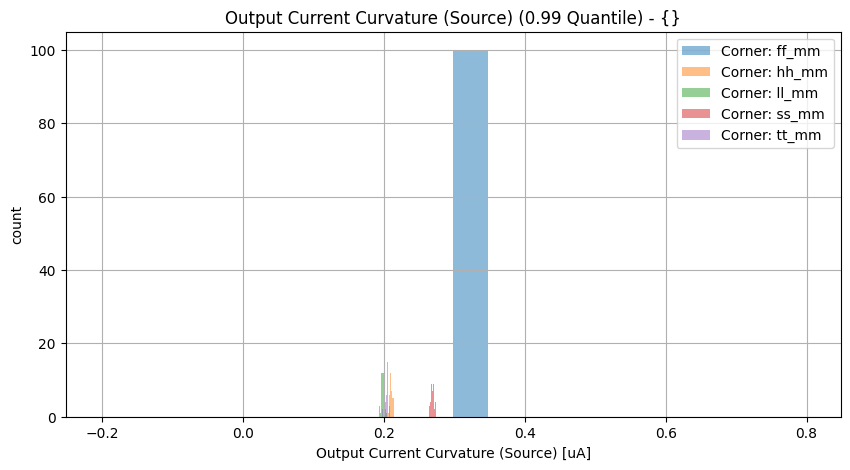
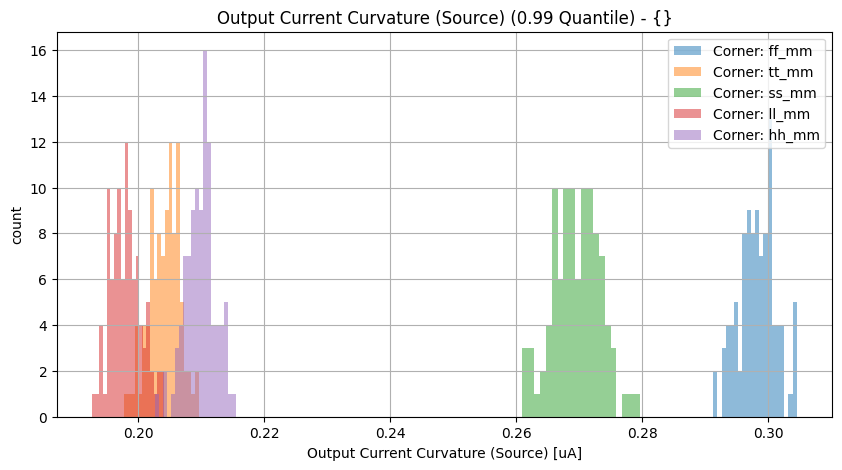
Jenkins update

diff --git a/vthref/vthref/Readme.md b/vthref/vthref/Readme.md
@@ -1,4 +1,4 @@
-23.11.2022, 20:17:28
+24.11.2022, 00:33:06
 
 # Vth Current Reference
 
@@ -30,8 +30,8 @@
 
 | Parameter | Min (Spec. / Sim.) |      | Max (Sim. / Spec.) | Unit | Checks (total/pass/fail/NaN) | Comment |
 | :-------- | -----------------: | :--: | :----------------- | :--- | :--------------------------- | ------- |
-| Output Current Curvature (Sink) | 0.0 / 0.191 | <svg height="20" width="150"><polyline points="3.0,3,3.0,17,147.0,17,147.0,3" style="fill:none;stroke:gray;stroke-width:1" /><polyline points="75.0,10.0,75.0,17" style="fill:none;stroke:gray;stroke-width:1" /><polyline points="30.481392000000003,10.0,47.0605008,10.0" style="stroke:green;stroke-width:2" /><circle cx="30.481392000000003" cy="10.0" r="3" style="fill:green;stroke:green;stroke-width:0" /><circle cx="47.0605008" cy="10.0" r="3" style="fill:green;stroke:green;stroke-width:0" /></svg> | 0.306 / 1.0 | uA | 500/100.0%/0.0%/0.0% |  |
-| Output Current Curvature (Source) | 0.0 / 0.193 | <svg height="20" width="150"><polyline points="3.0,3,3.0,17,147.0,17,147.0,3" style="fill:none;stroke:gray;stroke-width:1" /><polyline points="75.0,10.0,75.0,17" style="fill:none;stroke:gray;stroke-width:1" /><polyline points="30.7997184,10.0,45.9679728,10.0" style="stroke:green;stroke-width:2" /><circle cx="30.7997184" cy="10.0" r="3" style="fill:green;stroke:green;stroke-width:0" /><circle cx="45.9679728" cy="10.0" r="3" style="fill:green;stroke:green;stroke-width:0" /></svg> | 0.298 / 1.0 | uA | 500/100.0%/0.0%/0.0% |  |
+| Output Current Curvature (Sink) | 0.0 / 0.191 | <svg height="20" width="150"><polyline points="3.0,3,3.0,17,147.0,17,147.0,3" style="fill:none;stroke:gray;stroke-width:1" /><polyline points="75.0,10.0,75.0,17" style="fill:none;stroke:gray;stroke-width:1" /><polyline points="30.4703904,10.0,47.329636799999996,10.0" style="stroke:green;stroke-width:2" /><circle cx="30.4703904" cy="10.0" r="3" style="fill:green;stroke:green;stroke-width:0" /><circle cx="47.329636799999996" cy="10.0" r="3" style="fill:green;stroke:green;stroke-width:0" /></svg> | 0.308 / 1.0 | uA | 500/100.0%/0.0%/0.0% |  |
+| Output Current Curvature (Source) | 0.0 / 0.193 | <svg height="20" width="150"><polyline points="3.0,3,3.0,17,147.0,17,147.0,3" style="fill:none;stroke:gray;stroke-width:1" /><polyline points="75.0,10.0,75.0,17" style="fill:none;stroke:gray;stroke-width:1" /><polyline points="30.7536096,10.0,46.8572736,10.0" style="stroke:green;stroke-width:2" /><circle cx="30.7536096" cy="10.0" r="3" style="fill:green;stroke:green;stroke-width:0" /><circle cx="46.8572736" cy="10.0" r="3" style="fill:green;stroke:green;stroke-width:0" /></svg> | 0.305 / 1.0 | uA | 500/100.0%/0.0%/0.0% |  |
 
 <br>
 
@@ -50,18 +50,16 @@
 
 | Parameter | Min (Spec. / Sim.) |      | Max (Sim. / Spec.) | Unit | Checks (total/pass/fail/NaN) | Comment |
 | :-------- | -----------------: | :--: | :----------------- | :--- | :--------------------------- | ------- |
-| Output Current Curvature (Sink) | 0.0 / 0.193 | <svg height="20" width="150"><polyline points="3.0,3,3.0,17,36.031220008111,17,36.031220008111,3" style="fill:none;stroke:gray;stroke-width:1" /><polyline points="19.5156100040555,10.0,19.5156100040555,17" style="fill:none;stroke:gray;stroke-width:1" /><polyline points="9.387144616186399,10.0,147.0,10.0" style="stroke:red;stroke-width:2" /><circle cx="9.387144616186399" cy="10.0" r="3" style="fill:red;stroke:red;stroke-width:0" /><circle cx="147.0" cy="10.0" r="3" style="fill:red;stroke:red;stroke-width:0" /></svg> | 4.36 / 1.0 | uA | 500/99.6%/0.4%/0.0% |  |
-| Output Current Curvature (Source) | 0.0 / 0.198 | <svg height="20" width="150"><polyline points="3.0,3,3.0,17,36.51281306552872,17,36.51281306552872,3" style="fill:none;stroke:gray;stroke-width:1" /><polyline points="19.75640653276436,10.0,19.75640653276436,17" style="fill:none;stroke:gray;stroke-width:1" /><polyline points="9.632936392680802,10.0,147.0,10.0" style="stroke:red;stroke-width:2" /><circle cx="9.632936392680802" cy="10.0" r="3" style="fill:red;stroke:red;stroke-width:0" /><circle cx="147.0" cy="10.0" r="3" style="fill:red;stroke:red;stroke-width:0" /></svg> | 4.297 / 1.0 | uA | 500/99.6%/0.4%/0.0% |  |
+| Output Current Curvature (Sink) | 0.0 / 0.193 | <svg height="20" width="150"><polyline points="3.0,3,3.0,17,36.078513920196706,17,36.078513920196706,3" style="fill:none;stroke:gray;stroke-width:1" /><polyline points="19.539256960098353,10.0,19.539256960098353,17" style="fill:none;stroke:gray;stroke-width:1" /><polyline points="9.394883856513676,10.0,147.0,10.0" style="stroke:red;stroke-width:2" /><circle cx="9.394883856513676" cy="10.0" r="3" style="fill:red;stroke:red;stroke-width:0" /><circle cx="147.0" cy="10.0" r="3" style="fill:red;stroke:red;stroke-width:0" /></svg> | 4.353 / 1.0 | uA | 500/99.8%/0.2%/0.0% |  |
+| Output Current Curvature (Source) | 0.0 / 0.195 | <svg height="20" width="150"><polyline points="3.0,3,3.0,17,36.58521466899555,17,36.58521466899555,3" style="fill:none;stroke:gray;stroke-width:1" /><polyline points="19.792607334497774,10.0,19.792607334497774,17" style="fill:none;stroke:gray;stroke-width:1" /><polyline points="9.552985877184,10.0,146.99999999999997,10.0" style="stroke:red;stroke-width:2" /><circle cx="9.552985877184" cy="10.0" r="3" style="fill:red;stroke:red;stroke-width:0" /><circle cx="146.99999999999997" cy="10.0" r="3" style="fill:red;stroke:red;stroke-width:0" /></svg> | 4.288 / 1.0 | uA | 500/99.8%/0.2%/0.0% |  |
 
 <details><summary>Show specification violation details...</summary>
 
 > **FAIL:** Specification violation for parameter "Output Current Curvature (Sink)":<br>
-> **FAIL:** group:ll_mm file:work/sim/vthref/vthref_tb.4_dcext/batch_2/ll_mm/dc.csv Index:10 <br>
-> **FAIL:** group:ll_mm file:work/sim/vthref/vthref_tb.4_dcext/batch_3/ll_mm/dc.csv Index:18 <br>
+> **FAIL:** group:ll_mm file:work/sim/vthref/vthref_tb.4_dcext/batch_0/ll_mm/dc.csv Index:3 <br>
 
 > **FAIL:** Specification violation for parameter "Output Current Curvature (Source)":<br>
-> **FAIL:** group:ll_mm file:work/sim/vthref/vthref_tb.4_dcext/batch_2/ll_mm/dc.csv Index:10 <br>
-> **FAIL:** group:ll_mm file:work/sim/vthref/vthref_tb.4_dcext/batch_3/ll_mm/dc.csv Index:18 <br>
+> **FAIL:** group:ll_mm file:work/sim/vthref/vthref_tb.4_dcext/batch_0/ll_mm/dc.csv Index:3 <br>
 </details><br>
 
 

diff --git a/vthref/vthref/specReport.md b/vthref/vthref/specReport.md
@@ -13,8 +13,8 @@
 
 | Parameter | Min (Spec. / Sim.) |      | Max (Sim. / Spec.) | Unit | Checks (total/pass/fail/NaN) | Comment |
 | :-------- | -----------------: | :--: | :----------------- | :--- | :--------------------------- | ------- |
-| Output Current Curvature (Sink) | 0.0 / 0.191 | <svg height="20" width="150"><polyline points="3.0,3,3.0,17,147.0,17,147.0,3" style="fill:none;stroke:gray;stroke-width:1" /><polyline points="75.0,10.0,75.0,17" style="fill:none;stroke:gray;stroke-width:1" /><polyline points="30.481392000000003,10.0,47.0605008,10.0" style="stroke:green;stroke-width:2" /><circle cx="30.481392000000003" cy="10.0" r="3" style="fill:green;stroke:green;stroke-width:0" /><circle cx="47.0605008" cy="10.0" r="3" style="fill:green;stroke:green;stroke-width:0" /></svg> | 0.306 / 1.0 | uA | 500/100.0%/0.0%/0.0% |  |
-| Output Current Curvature (Source) | 0.0 / 0.193 | <svg height="20" width="150"><polyline points="3.0,3,3.0,17,147.0,17,147.0,3" style="fill:none;stroke:gray;stroke-width:1" /><polyline points="75.0,10.0,75.0,17" style="fill:none;stroke:gray;stroke-width:1" /><polyline points="30.7997184,10.0,45.9679728,10.0" style="stroke:green;stroke-width:2" /><circle cx="30.7997184" cy="10.0" r="3" style="fill:green;stroke:green;stroke-width:0" /><circle cx="45.9679728" cy="10.0" r="3" style="fill:green;stroke:green;stroke-width:0" /></svg> | 0.298 / 1.0 | uA | 500/100.0%/0.0%/0.0% |  |
+| Output Current Curvature (Sink) | 0.0 / 0.191 | <svg height="20" width="150"><polyline points="3.0,3,3.0,17,147.0,17,147.0,3" style="fill:none;stroke:gray;stroke-width:1" /><polyline points="75.0,10.0,75.0,17" style="fill:none;stroke:gray;stroke-width:1" /><polyline points="30.4703904,10.0,47.329636799999996,10.0" style="stroke:green;stroke-width:2" /><circle cx="30.4703904" cy="10.0" r="3" style="fill:green;stroke:green;stroke-width:0" /><circle cx="47.329636799999996" cy="10.0" r="3" style="fill:green;stroke:green;stroke-width:0" /></svg> | 0.308 / 1.0 | uA | 500/100.0%/0.0%/0.0% |  |
+| Output Current Curvature (Source) | 0.0 / 0.193 | <svg height="20" width="150"><polyline points="3.0,3,3.0,17,147.0,17,147.0,3" style="fill:none;stroke:gray;stroke-width:1" /><polyline points="75.0,10.0,75.0,17" style="fill:none;stroke:gray;stroke-width:1" /><polyline points="30.7536096,10.0,46.8572736,10.0" style="stroke:green;stroke-width:2" /><circle cx="30.7536096" cy="10.0" r="3" style="fill:green;stroke:green;stroke-width:0" /><circle cx="46.8572736" cy="10.0" r="3" style="fill:green;stroke:green;stroke-width:0" /></svg> | 0.305 / 1.0 | uA | 500/100.0%/0.0%/0.0% |  |
 
 <br>
 
@@ -33,17 +33,15 @@
 
 | Parameter | Min (Spec. / Sim.) |      | Max (Sim. / Spec.) | Unit | Checks (total/pass/fail/NaN) | Comment |
 | :-------- | -----------------: | :--: | :----------------- | :--- | :--------------------------- | ------- |
-| Output Current Curvature (Sink) | 0.0 / 0.193 | <svg height="20" width="150"><polyline points="3.0,3,3.0,17,36.031220008111,17,36.031220008111,3" style="fill:none;stroke:gray;stroke-width:1" /><polyline points="19.5156100040555,10.0,19.5156100040555,17" style="fill:none;stroke:gray;stroke-width:1" /><polyline points="9.387144616186399,10.0,147.0,10.0" style="stroke:red;stroke-width:2" /><circle cx="9.387144616186399" cy="10.0" r="3" style="fill:red;stroke:red;stroke-width:0" /><circle cx="147.0" cy="10.0" r="3" style="fill:red;stroke:red;stroke-width:0" /></svg> | 4.36 / 1.0 | uA | 500/99.6%/0.4%/0.0% |  |
-| Output Current Curvature (Source) | 0.0 / 0.198 | <svg height="20" width="150"><polyline points="3.0,3,3.0,17,36.51281306552872,17,36.51281306552872,3" style="fill:none;stroke:gray;stroke-width:1" /><polyline points="19.75640653276436,10.0,19.75640653276436,17" style="fill:none;stroke:gray;stroke-width:1" /><polyline points="9.632936392680802,10.0,147.0,10.0" style="stroke:red;stroke-width:2" /><circle cx="9.632936392680802" cy="10.0" r="3" style="fill:red;stroke:red;stroke-width:0" /><circle cx="147.0" cy="10.0" r="3" style="fill:red;stroke:red;stroke-width:0" /></svg> | 4.297 / 1.0 | uA | 500/99.6%/0.4%/0.0% |  |
+| Output Current Curvature (Sink) | 0.0 / 0.193 | <svg height="20" width="150"><polyline points="3.0,3,3.0,17,36.078513920196706,17,36.078513920196706,3" style="fill:none;stroke:gray;stroke-width:1" /><polyline points="19.539256960098353,10.0,19.539256960098353,17" style="fill:none;stroke:gray;stroke-width:1" /><polyline points="9.394883856513676,10.0,147.0,10.0" style="stroke:red;stroke-width:2" /><circle cx="9.394883856513676" cy="10.0" r="3" style="fill:red;stroke:red;stroke-width:0" /><circle cx="147.0" cy="10.0" r="3" style="fill:red;stroke:red;stroke-width:0" /></svg> | 4.353 / 1.0 | uA | 500/99.8%/0.2%/0.0% |  |
+| Output Current Curvature (Source) | 0.0 / 0.195 | <svg height="20" width="150"><polyline points="3.0,3,3.0,17,36.58521466899555,17,36.58521466899555,3" style="fill:none;stroke:gray;stroke-width:1" /><polyline points="19.792607334497774,10.0,19.792607334497774,17" style="fill:none;stroke:gray;stroke-width:1" /><polyline points="9.552985877184,10.0,146.99999999999997,10.0" style="stroke:red;stroke-width:2" /><circle cx="9.552985877184" cy="10.0" r="3" style="fill:red;stroke:red;stroke-width:0" /><circle cx="146.99999999999997" cy="10.0" r="3" style="fill:red;stroke:red;stroke-width:0" /></svg> | 4.288 / 1.0 | uA | 500/99.8%/0.2%/0.0% |  |
 
 <details><summary>Show specification violation details...</summary>
 
 > **FAIL:** Specification violation for parameter "Output Current Curvature (Sink)":<br>
-> **FAIL:** group:ll_mm file:work/sim/vthref/vthref_tb.4_dcext/batch_2/ll_mm/dc.csv Index:10 <br>
-> **FAIL:** group:ll_mm file:work/sim/vthref/vthref_tb.4_dcext/batch_3/ll_mm/dc.csv Index:18 <br>
+> **FAIL:** group:ll_mm file:work/sim/vthref/vthref_tb.4_dcext/batch_0/ll_mm/dc.csv Index:3 <br>
 
 > **FAIL:** Specification violation for parameter "Output Current Curvature (Source)":<br>
-> **FAIL:** group:ll_mm file:work/sim/vthref/vthref_tb.4_dcext/batch_2/ll_mm/dc.csv Index:10 <br>
-> **FAIL:** group:ll_mm file:work/sim/vthref/vthref_tb.4_dcext/batch_3/ll_mm/dc.csv Index:18 <br>
+> **FAIL:** group:ll_mm file:work/sim/vthref/vthref_tb.4_dcext/batch_0/ll_mm/dc.csv Index:3 <br>
 </details><br>
 

diff --git a/bmbg/bmbgota/Readme.md b/bmbg/bmbgota/Readme.md
@@ -1,4 +1,4 @@
-23.11.2022, 20:17:28
+24.11.2022, 00:33:06
 
 # Beta-Multiplier Bandgap OTA
 

diff --git a/bmbg/bmbg/Readme.md b/bmbg/bmbg/Readme.md
@@ -1,4 +1,4 @@
-23.11.2022, 20:17:28
+24.11.2022, 00:33:06
 
 # Beta-Multiplier Bandgap
 

diff --git a/riosc/riosc/Readme.md b/riosc/riosc/Readme.md
@@ -1,4 +1,4 @@
-23.11.2022, 20:17:28
+24.11.2022, 00:33:06
 
 # Ring Oscillator
 

diff --git a/ldo/ldo/Readme.md b/ldo/ldo/Readme.md
@@ -1,4 +1,4 @@
-23.11.2022, 20:17:28
+24.11.2022, 00:33:06
 
 # 1.8 V LDO
 

diff --git a/ldo/ldoota/Readme.md b/ldo/ldoota/Readme.md
@@ -1,4 +1,4 @@
-23.11.2022, 20:17:28
+24.11.2022, 00:33:06
 
 # LDO OP
 
